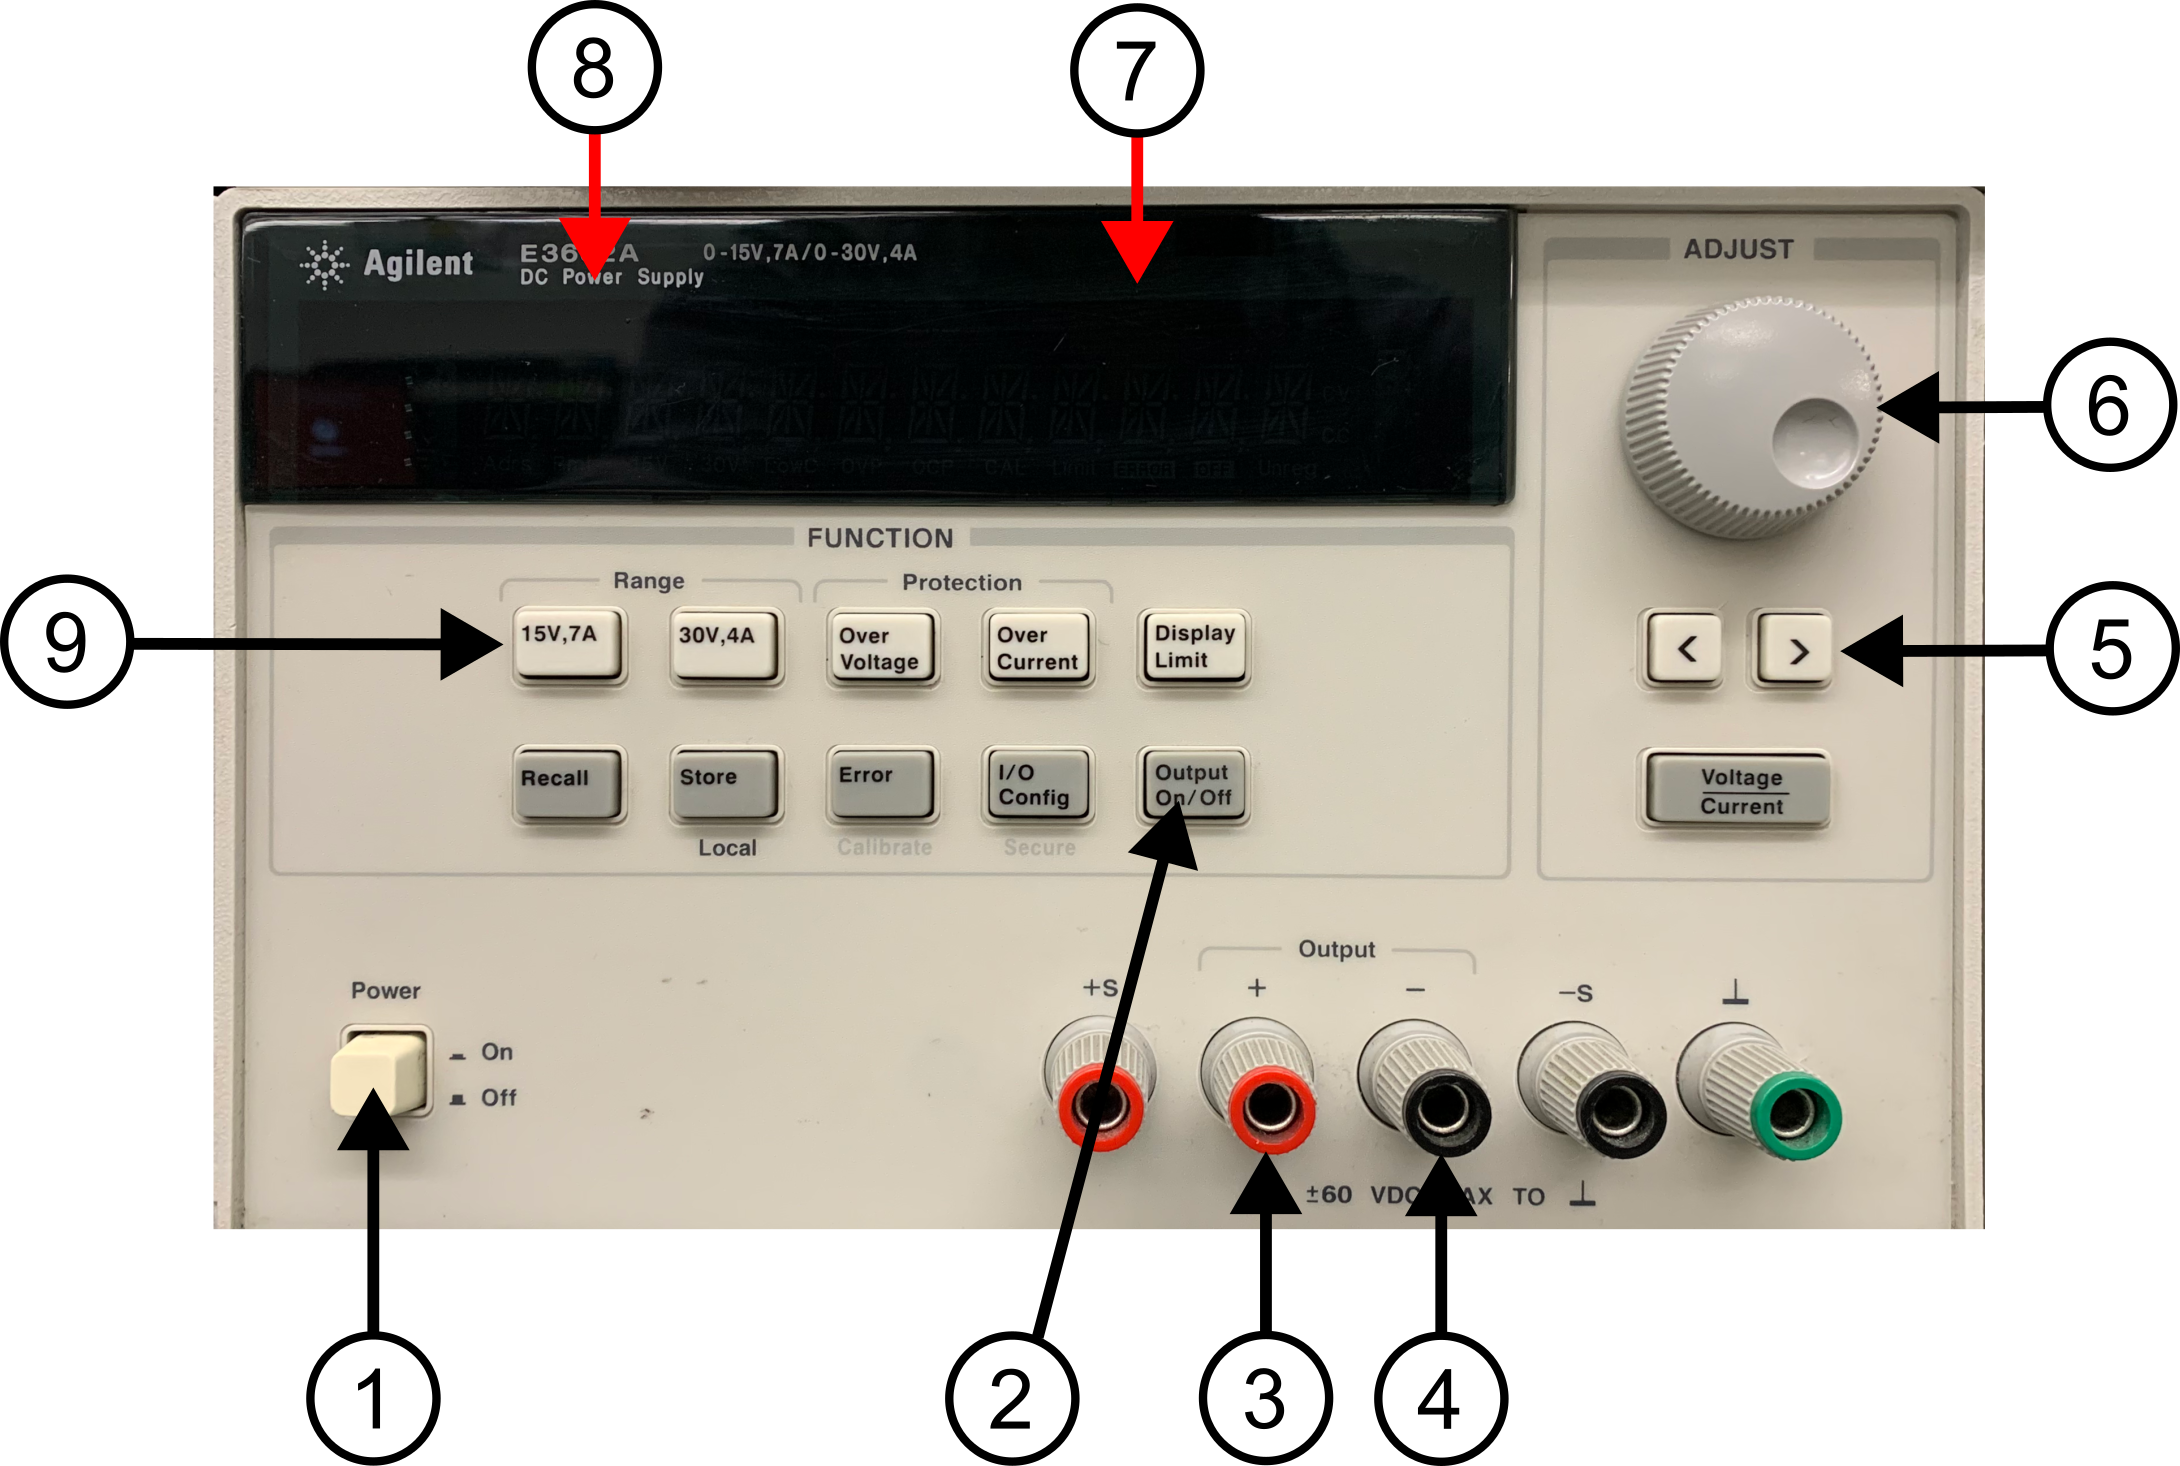
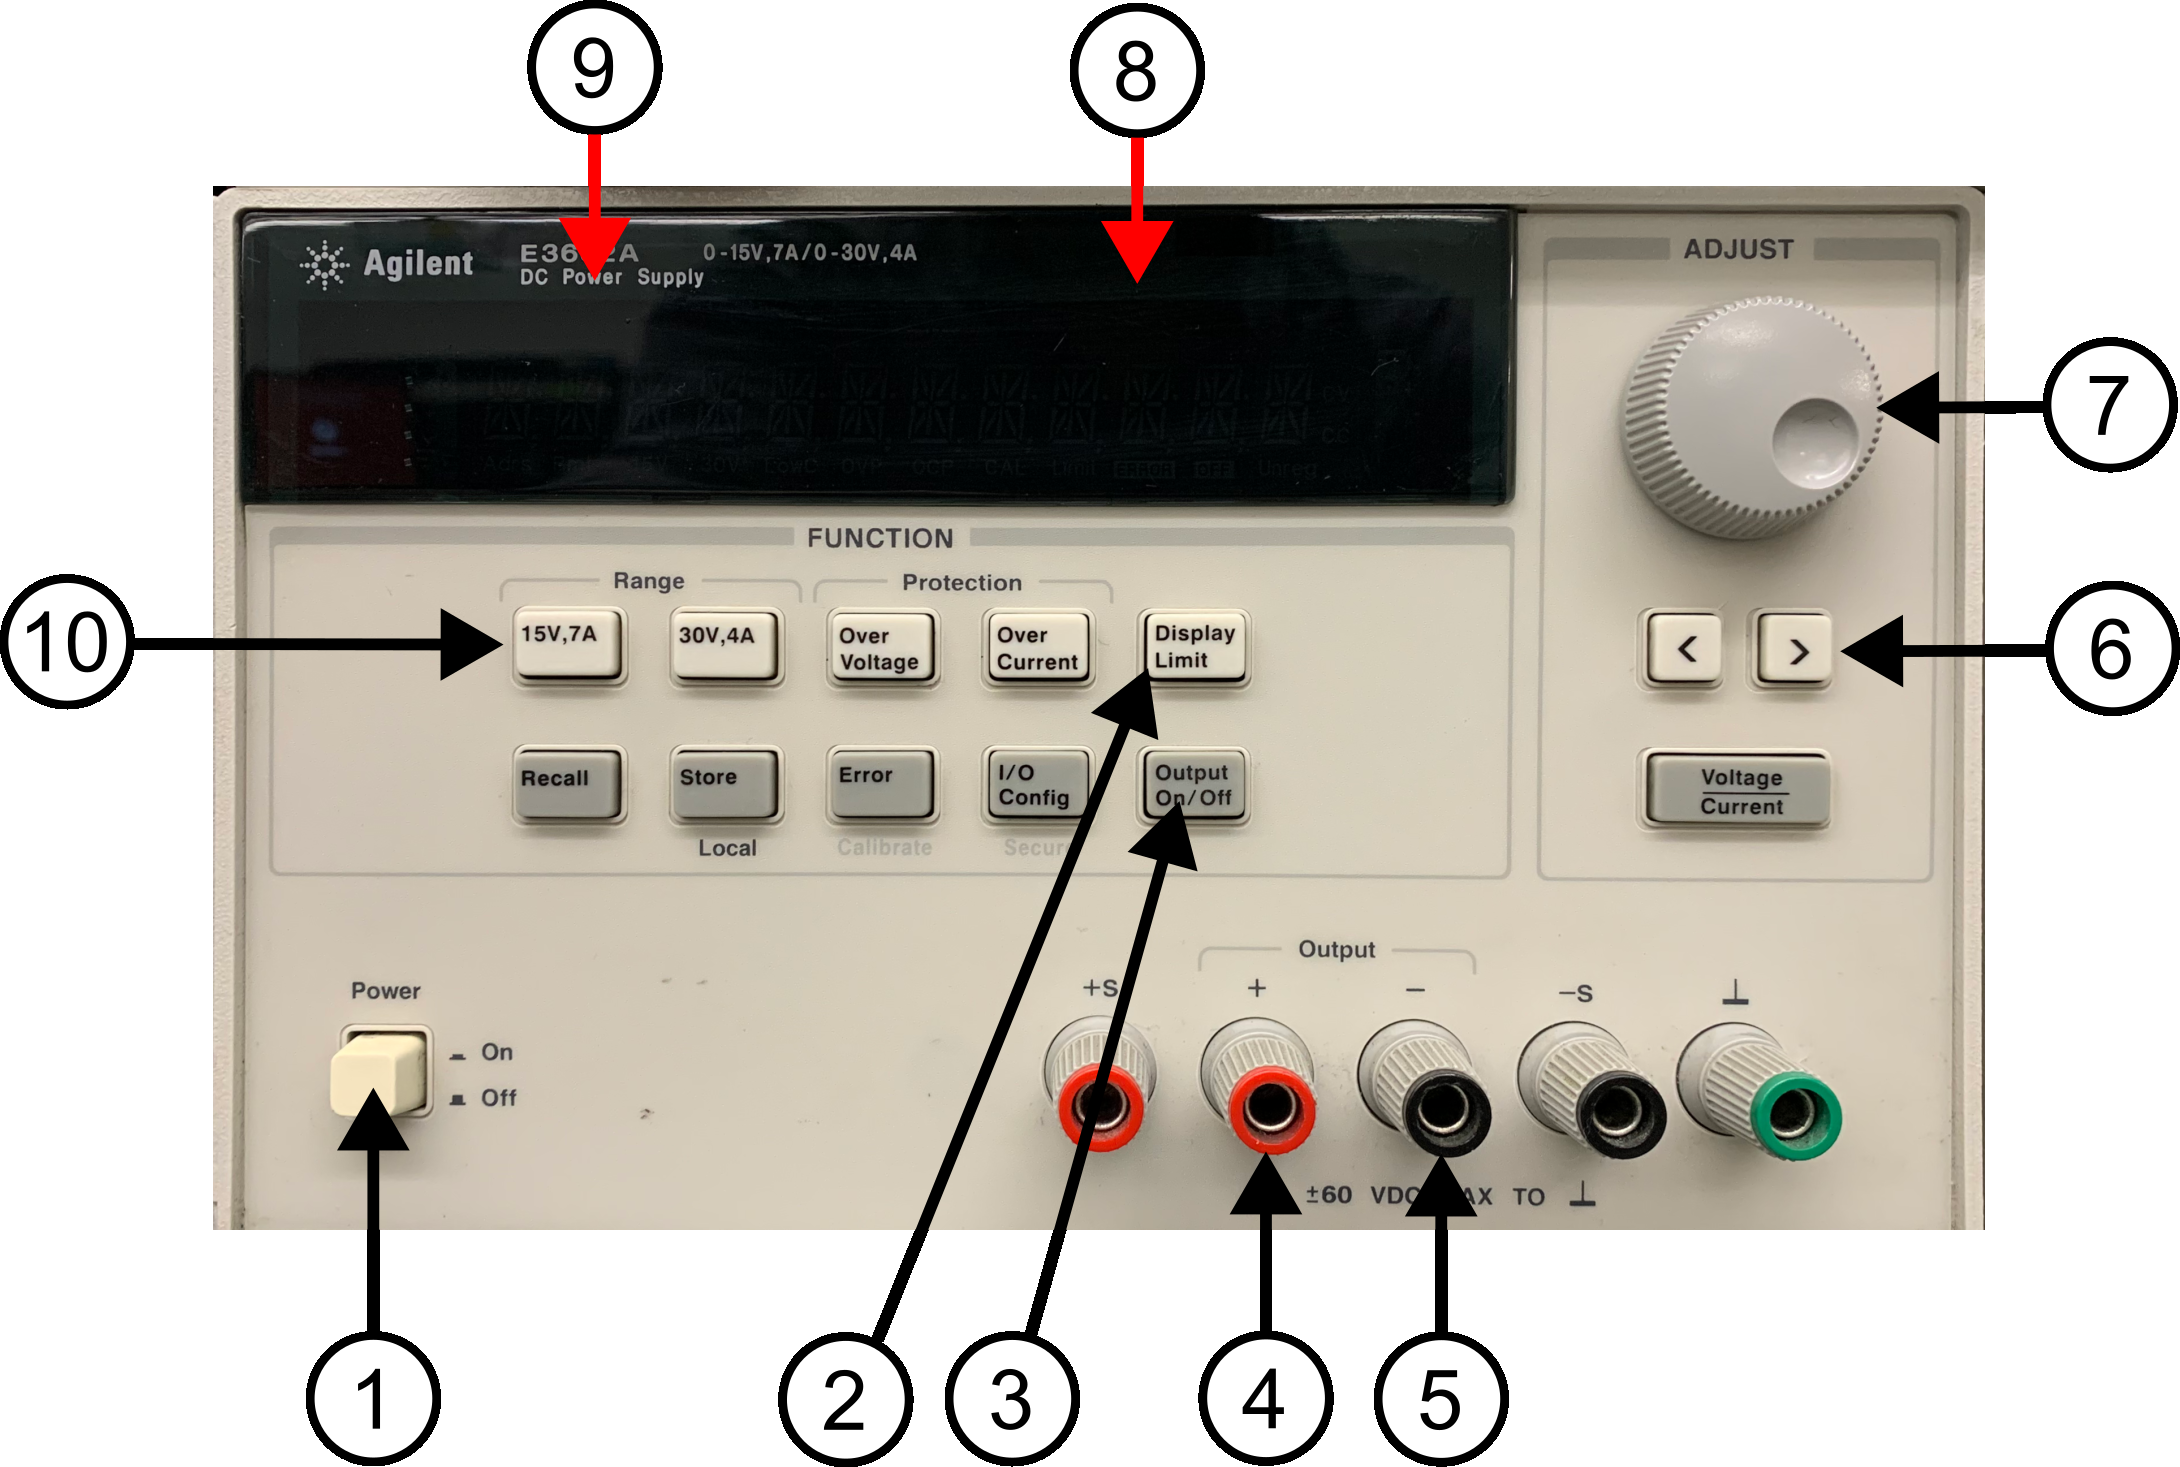
updated lab3

diff --git a/docs/ses250/lab3.md b/docs/ses250/lab3.md
@@ -11,13 +11,13 @@ SES250 Electromagnatics
 
 ## Purpose
 - Operate a DC power supply
-- Setup and read measurement from a digital multimeter (DMM)
+- Setup and read measurements from a digital multimeter (DMM)
 
 ## Important Rules for this Lab
 
 <div style="padding: 15px; border: 1px solid orange; background-color: orange; color: black;">
 <ol>
-<li>Any signal (voltage current) must be adjusted to the specified value (amplitude and/or frequency) <strong>before</strong> applying them to a circuit.</li>
+<li>Any signal (voltage, current) must be adjusted to the specified value (amplitude and/or frequency) <strong>before</strong> applying them to a circuit.</li>
 <li>An instrument must be set up for the required mode of operation <strong>before</strong> it is connected to a circuit.</li>
 <li>The power supply must be switched off <strong>before</strong> making any changes to the circuit.</li>
 </div>
@@ -37,7 +37,7 @@ In the electronics lab, you will be using a Keysight 34461A (or similar) Digital
 
 ### Direct Current (DC) Power Supply
 
-An adjustable DC power supply converts electricity from the power grid to a specified voltage and current then provide them at it output connector.
+An adjustable DC power supply converts electricity from the power grid to a specified voltage and current and then provides them at its output connector.
 
 ![Figure 3.2 Agilent E3632A DC Power Supply](lab3-PS.png)
 
@@ -55,6 +55,18 @@ Answer all the lab preparation questions at the end of this document in your lab
 Lab preparation must be done individually in the lab notebook.
 
 > **Lab Preparation Question:**
+> 1. Copy the following observation table in your notebook for this lab:
+    >
+    >    ||Output: +1V|Output: +2V|Output: +5V|Output: +10V|
+    >    |---|---|---|---|---|
+    >    |Range: 100mV||||||
+    >    |Range: 1V||||||
+    >    |Range: 10V||||||
+    >    |Range: 100V||||||
+    >    |Range: 1000V||||||
+    >
+> 1. Research: beside voltage, resistance, and current, list two other electronics-related properties a modem DMM can measure.
+> 1. In your own word, explain the difference between the two ON/OFF settings of the DC power supply we use in this lab.
 
 ## Procedures
 
@@ -71,7 +83,7 @@ Lab preparation must be done individually in the lab notebook.
 
 ### Part 2: Digital Multimeter (DMM) and DC Voltage Measurement
 
-1. Identify the digital multimeter (DMM) at your workbench. If there are two DMMs, use the one on the left-hand side. Disconnect any cables that are plugged into it so the DMM is as shown below in Figure 3.4.
+1. Identify the digital multimeter (DMM) at your workbench. If there are two DMMs, use the one on the left-hand side. Disconnect any cables that are plugged in it so the DMM is as shown in Figure 3.4 below.
 
     ![Figure 3.4](lab3-dmm-1.png)
 
@@ -81,9 +93,9 @@ Lab preparation must be done individually in the lab notebook.
 
 1. Identify the two cables that are next to the DMM with a banana connector on one end and an alligator clip on the other end.
 
-1. Connect the banana connector from the red cable to the red terminal labelled with “HI” under “Input VΩ►|” (5).
+1. Connect the banana connector from the red cable to the red terminal labelled with “HI” under “Input VΩ►|” (5).
 
-1. Connect the banana connector from the black cable to the black terminal labelled with “LO” under “Input VΩ►|” (6)
+1. Connect the banana connector from the black cable to the black terminal labelled with “LO” under “Input VΩ►|” (6)
 
     ![Figure 3.5](lab3-dmm-2.png)
 
@@ -91,62 +103,85 @@ Lab preparation must be done individually in the lab notebook.
 
 1. Verify the cables are connected as per shown in Figure 3.5 above. At this point, your DMM is set up to measure direct current (DC) voltage. We’ll be discussing direct current voltage during class. Remember this configuration for future labs and careers as measuring DC voltage is a very important skill for working with electronics.
 
-1. Identify the DC power supply at your workbench. If there are two DC power supplies, use the one on the left-hand side. Disconnect any cable plug into it so it is as shown below.
+1. Identify the DC power supply at your workbench. If there are two DC power supplies, use the one on the left-hand side. Disconnect any cables that are plugged in so it is as shown in Figure 3.6 below.
 
-1. Ensure the DC power supply is OFF. If not, press the power button (7) to ensure the DC power supply is off.
-    7. Turn on the DC power supply (7). Then press the “Display Limit” button. Select the appropriate output voltage range and use the lowest possible setting (16) for a 5V output. In the photo above, the lowest setting is 15V, 7A, however, the lowest output range varies between different models of power supply. Adjust the voltage output to +5.0000V (14) using the digit selector (13) and the adjustment knob (12).
-    8. Identify the black cable with two leads that are next to the DC power supply with a banana connector on one end and an alligator clip on the other end.
-        a. Connect the red banana connector from the cable to the red “Output” terminal labelled with “+” (9) NOTE: connect to the appropriate output terminal depending on the output range you selected earlier.
-        b. Connect the black banana connector from the cable to the black “Output” terminal labelled with “-“ (10)
-    9. You’ve now set up the power supply for DC output.
-    10. Connect the two red alligator clips (one from the DMM and one from the power supply) and connect the two black alligator clips. Your setup should look like the photo below. The second DMM, oscilloscope, and function can be in the OFF state. WARNING: Ensure the exposed portion of the red alligator clip is NOT touching the exposed portion of the black alligator clip.
+    ![Figure 3.6](lab3-ps-1.png)
 
- 
+    ***Figure 3.6***
 
-    11. Once the voltage is adjusted to +5.0000V and the banana cables are connected, turn on the power supply output by pressing the Output On/Off button (8).
-    12. Notice that the DMM should now read about +5V. Make a note of the range value beside the “Auto” on the DMM display.
+1. Turn on the DC power supply (1) and then press the “Display Limit” button (2).
 
+1. Select the appropriate output voltage range (10) and use the lowest possible setting for a 5V output. In Figure 3.6 above, the lowest setting is "15V, 7A", however, the lowest output range varies between different models of power supply.
 
+1. Adjust the voltage output to +5.000V (9) using the digit selector (6) and the adjustment knob (7). Depending on the model of the power supply, the number of significant figures of the voltage output might be different.
 
-    13. Adjust the output voltage of the DC power supply to +13V. Note: If the output range you are on is below 13V, switch the output range and terminal as necessary. [Question] What happened to the Range setting on the DMM?
-    14. Afterward, decrease the voltage of the DC power supply slowly to 5V. [Question] At what, power supply voltage did the DMM change back “Auto 10V”?
-    15. Adjust the output voltage of the DC power supply so the reading on the DMM will display +1.000V. Note: Switch the output range and terminal as necessary. [Question] What is the output voltage of the DC power supply? Do they agree with each other? If not, what is the percentage difference?
-    16. Adjust the DC power supply output voltage to +1.0000V then change the voltage Range on the DMM from Auto to the various other range and record the observed values in the table below. Repeat this step for DV output voltage of +2V, +5V, and +10V. Some output might give you an error or warning. Record such error or warning. The reading might fluctuate but record at least 4 significant digits to the best of your ability in estimating.
+1. Identify the black cable with two leads that are next to the DC power supply with a banana connector on one end and an alligator clip on the other end.
 
+1. Connect the red banana connector from the cable to the red “Output” terminal labelled with “+” (9)
 
-DC Output: +1V
-DC Output: +2V
-DC Output: +5V
-DC Output: +10V
-Range: 100mV
+    **NOTE:** In some models of power supply, there might be multiple output terminals. connect to the appropriate output terminal depending on the output range you selected earlier.
 
+1. Connect the black banana connector from the cable to the black “Output” terminal labelled with “-“ (10)
 
+1. You’ve now set up the power supply for DC output.
 
+1. Connect the two red alligator clips (one from the DMM and one from the power supply) and connect the two black alligator clips as shown in Figure 3.7.
 
-Range: 1V
+    ![Figure 3.7](lab3-connection-1.png)
 
+    ***Figure 3.7***
 
+    <div style="padding: 15px; border: 1px solid red; background-color: red; color: white;"><font size="4">WARNING: Ensure the exposed portion of the red alligator clip is NOT touching the exposed portion of the black alligator clip.</font></div>
 
+1. Your setup should look like Figure 3.8 below. The second DMM, oscilloscope, and function can be in the OFF state. 
 
-Range: 10V
+    ![Figure 3.8](lab3-connection-2.png)
 
+    ***Figure 3.8***
 
+1. Press the "Display Limit" button (2) on the power supply again and verify the voltage is adjusted to +5.000V and the banana cables are connected. Also, verify that the exposed portion of the red alligator clip is NOT touching the exposed portion of the black alligator clip.
 
+1. Turn on the power supply output by pressing the Output On/Off button (8).
 
-Range: 100V
+    <div style="padding: 15px; border: 1px solid orange; background-color: orange; color: black;">
+    NOTE: There is a difference between the power supply being ON/OF and the power supply OUTPUT being ON/OFF. The power supply can be ON with its power output OFF.
+    </div>
 
+1. Notice that the DMM should now read about +5V, similar to as shown in Figure 3.9. Make a note of the range value beside the “Auto” on the DMM display.
 
+    ![Figure 3.9](lab3-reading-1.png)
 
+    ***Figure 3.9***
 
-Range: 1000V
+1. With the power supply output ON, adjust the output voltage to +13V. **Note:** If the output range does not allow you to go to 13V, switch the output range (10) and terminals as necessary.
 
+    > **Lab Question 1:** What happened to the Range setting on the DMM? If you don't notice the change, decrease the output voltage back to 5V and try again.
 
+1. Afterward, decrease the voltage of the DC power supply slowly to 5V.
 
+    > **Lab Question 2:** At what, power supply voltage did the DMM change back “Auto 10V”? How are the significant figures and decimal places the same or different from the voltage readings from the previous step?
 
+1. Using the DMM reading only, adjust the output voltage of the DC power supply so the reading on the DMM will display +1.000V. **Note:** Switch the output range and terminal as necessary.
 
-[Question] If we want the most precise reading, what is the best setting for each DC output voltage in the table?
+    > **Lab Question 3:** What is the output voltage of the DC power supply? Do they agree exactly with each other? If not, which one is higher and what is the percentage difference?
 
-    17. Turn off the DC power supply and disconnect the alligator clips.
+1. Adjust the DC power supply output voltage to +1.000V then change the voltage Range on the DMM from "Auto" to "100mV" using the Range selection button. The DMM should not display "OVERLOAD" because the 1V output from the power supply is higher than the maximum 100mV range that can be measured.
+
+1. Change the DMM range setting and power supply voltage output to record the voltage reading on the DMM in the table below. Repeat this step for DV output voltage of +2V, +5V, and +10V. **NOTE:** The reading might fluctuate but record at least 4 significant digits to the best of your ability in estimating.
+
+    >
+    >    ||Output: +1V|Output: +2V|Output: +5V|Output: +10V|
+    >    |---|---|---|---|---|
+    >    |Range: 100mV|OVERLOAD|||||
+    >    |Range: 1V||||||
+    >    |Range: 10V||||||
+    >    |Range: 100V||||||
+    >    |Range: 1000V||||||
+    >
+
+    > **Lab Question 4:** If we want the most precise reading, what is the best setting for each DC output voltage in the table? Circle the most precise reading for each voltage output in the table above.
+
+1. Turn off the DC power supply and disconnect the alligator clips.
 
 Once you've completed all the above steps, ask the lab professor or instructor over and demostrate you've completed the lab and written down all your observation. You might be asked to explain some of the concepts you've learned in this lab.
 
